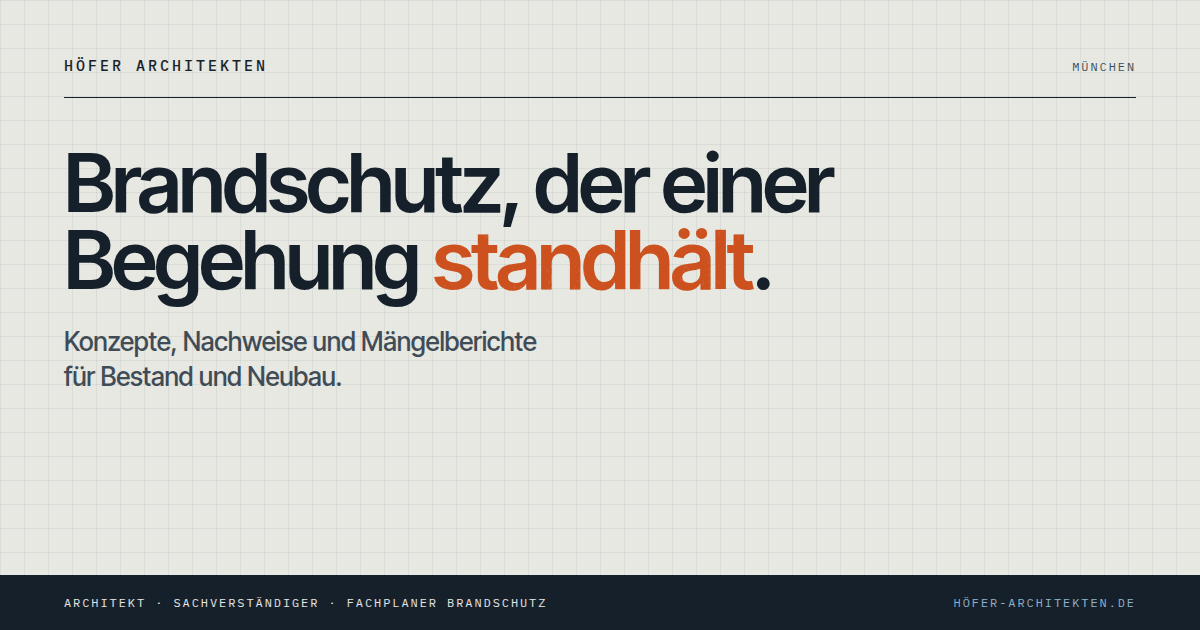
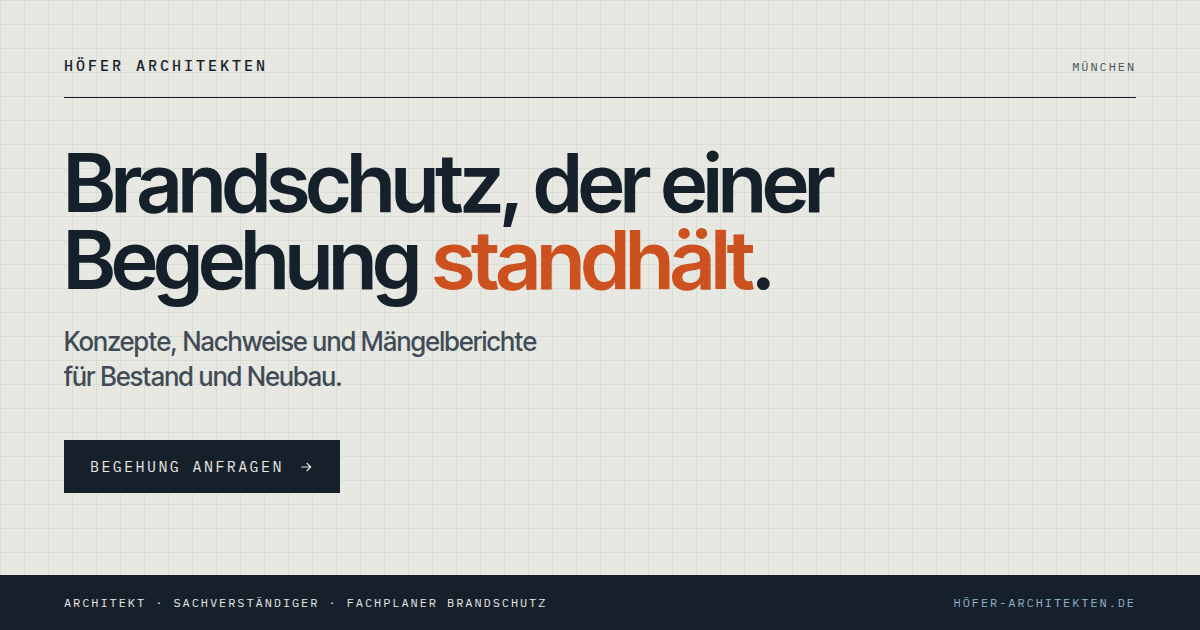
fix(achim-hoefer): shorten title and descriptions, add CTA to OG image
Title 74 -> 53 chars, meta description 168 -> 135, og/twitter description
147 -> 84. The 1200x630 image now carries a 'Begehung anfragen' button.

Changed region(s): [[0.0308, 0.6937, 0.3083, 0.7841]]

diff --git a/achim-hoefer/serve/index.html b/achim-hoefer/serve/index.html
@@ -1,16 +1,16 @@
 <!doctype html>
 <html lang="de">
 <head>
-<title>Höfer Architekten — Brandschutz, Architektur und Wertermittlung in München</title>
+<title>Höfer Architekten München — Brandschutz &amp; Architektur</title>
 <meta charset="utf-8" />
 <meta name="viewport" content="width=device-width, initial-scale=1" />
-<meta name="description" content="Achim Höfer, Architekt in München: Brandschutzkonzepte, Brandschutznachweise, Mängelberichte, Flucht- und Rettungspläne — dazu Hochbau, Bauunterhalt und Wertermittlung." />
+<meta name="description" content="Brandschutz für Bestand und Neubau in München: Konzepte, Nachweise, Mängelberichte — dazu Architektur, Bauunterhalt und Wertermittlung." />
 <link rel="canonical" href="https://xn--hfer-architekten-mwb.de/" />
 <meta property="og:type" content="website" />
 <meta property="og:locale" content="de_DE" />
 <meta property="og:site_name" content="Höfer Architekten" />
 <meta property="og:title" content="Höfer Architekten — Brandschutz in München" />
-<meta property="og:description" content="Brandschutzkonzepte, Nachweise und Mängelberichte für Bestand und Neubau — Architekt, Sachverständiger und Fachplaner für vorbeugenden Brandschutz." />
+<meta property="og:description" content="Brandschutz für Bestand und Neubau in München — Konzepte, Nachweise, Mängelberichte." />
 <meta property="og:url" content="https://xn--hfer-architekten-mwb.de/" />
 <meta property="og:image" content="https://xn--hfer-architekten-mwb.de/public/og-image.png" />
 <meta property="og:image:type" content="image/png" />
@@ -19,7 +19,7 @@
 <meta property="og:image:alt" content="Höfer Architekten — Brandschutz, der einer Begehung standhält." />
 <meta name="twitter:card" content="summary_large_image" />
 <meta name="twitter:title" content="Höfer Architekten — Brandschutz in München" />
-<meta name="twitter:description" content="Brandschutzkonzepte, Nachweise und Mängelberichte für Bestand und Neubau." />
+<meta name="twitter:description" content="Brandschutz für Bestand und Neubau in München — Konzepte, Nachweise, Mängelberichte." />
 <meta name="twitter:image" content="https://xn--hfer-architekten-mwb.de/public/og-image.png" />
 <meta name="theme-color" content="#E8E9E3" />
 <link rel="icon" href="public/playground_assets/favicon-32x32.png" type="image/png" sizes="32x32" />

diff --git a/achim-hoefer/og-image.html b/achim-hoefer/og-image.html
@@ -27,6 +27,8 @@
   h1{font-size:82px;line-height:.94;letter-spacing:-.038em;font-weight:600;margin:46px 0 0;max-width:15ch}
   h1 em{font-style:normal;color:#CE5019}
   p{margin:26px 0 0;font-size:26px;line-height:1.35;color:#3D4A55;max-width:32ch;letter-spacing:-.01em}
+  .cta{display:inline-flex;align-items:center;gap:14px;align-self:flex-start;margin-top:46px;background:#0E1A25;color:#E8E9E3;font-family:"IBM Plex Mono",monospace;font-size:15px;letter-spacing:.16em;text-transform:uppercase;padding:17px 26px}
+  .cta svg{width:16px;height:16px}
   .foot{margin-top:auto;background:#0E1A25;color:#E8E9E3;display:flex;align-items:center;justify-content:space-between;padding:20px 64px;margin-left:-64px;margin-right:-64px;font-family:"IBM Plex Mono",monospace;font-size:12px;letter-spacing:.16em;text-transform:uppercase}
   .foot span:last-child{color:#8FB6CC}
 </style>
@@ -39,6 +41,11 @@
   <div class="rule"></div>
   <h1>Brandschutz, der einer Begehung <em>standhält</em>.</h1>
   <p>Konzepte, Nachweise und Mängelberichte für Bestand und Neubau.</p>
+
+  <div class="cta">
+    Begehung anfragen
+    <svg viewBox="0 0 24 24" fill="none" stroke="currentColor" stroke-width="1.8" aria-hidden="true"><path d="M5 12h14M13 6l6 6-6 6"/></svg>
+  </div>
 
   <div class="foot">
     <span>Architekt · Sachverständiger · Fachplaner Brandschutz</span>
